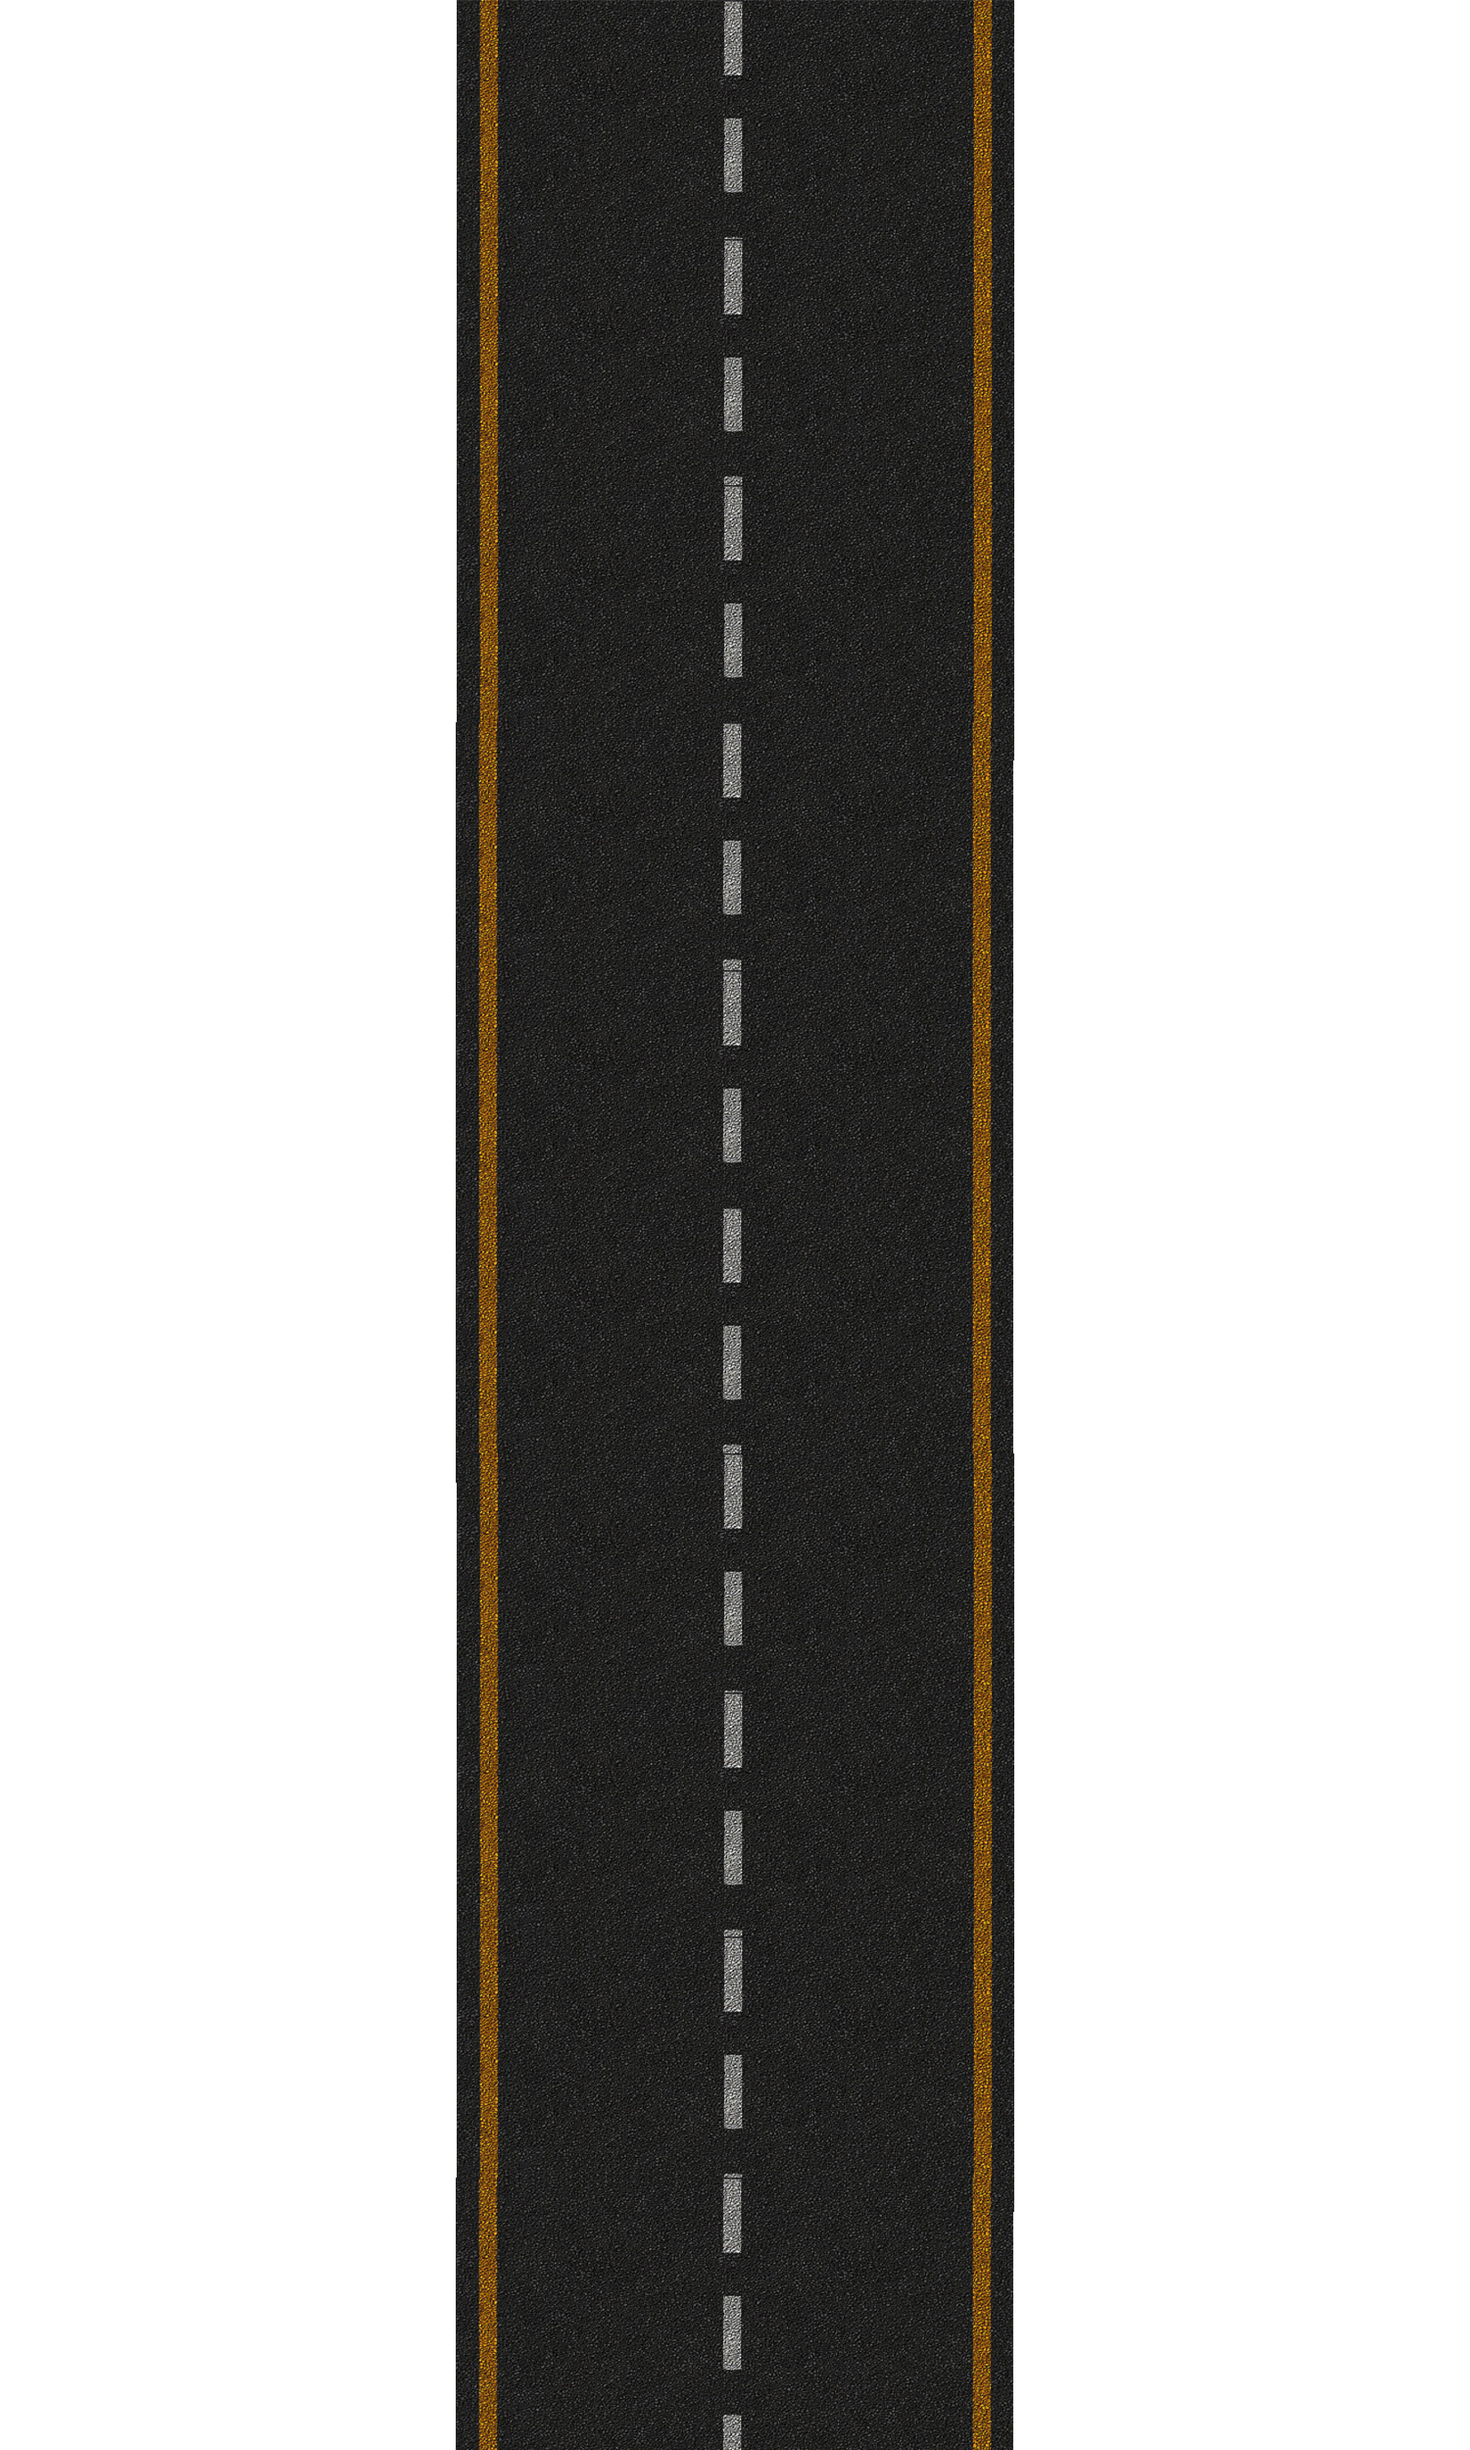
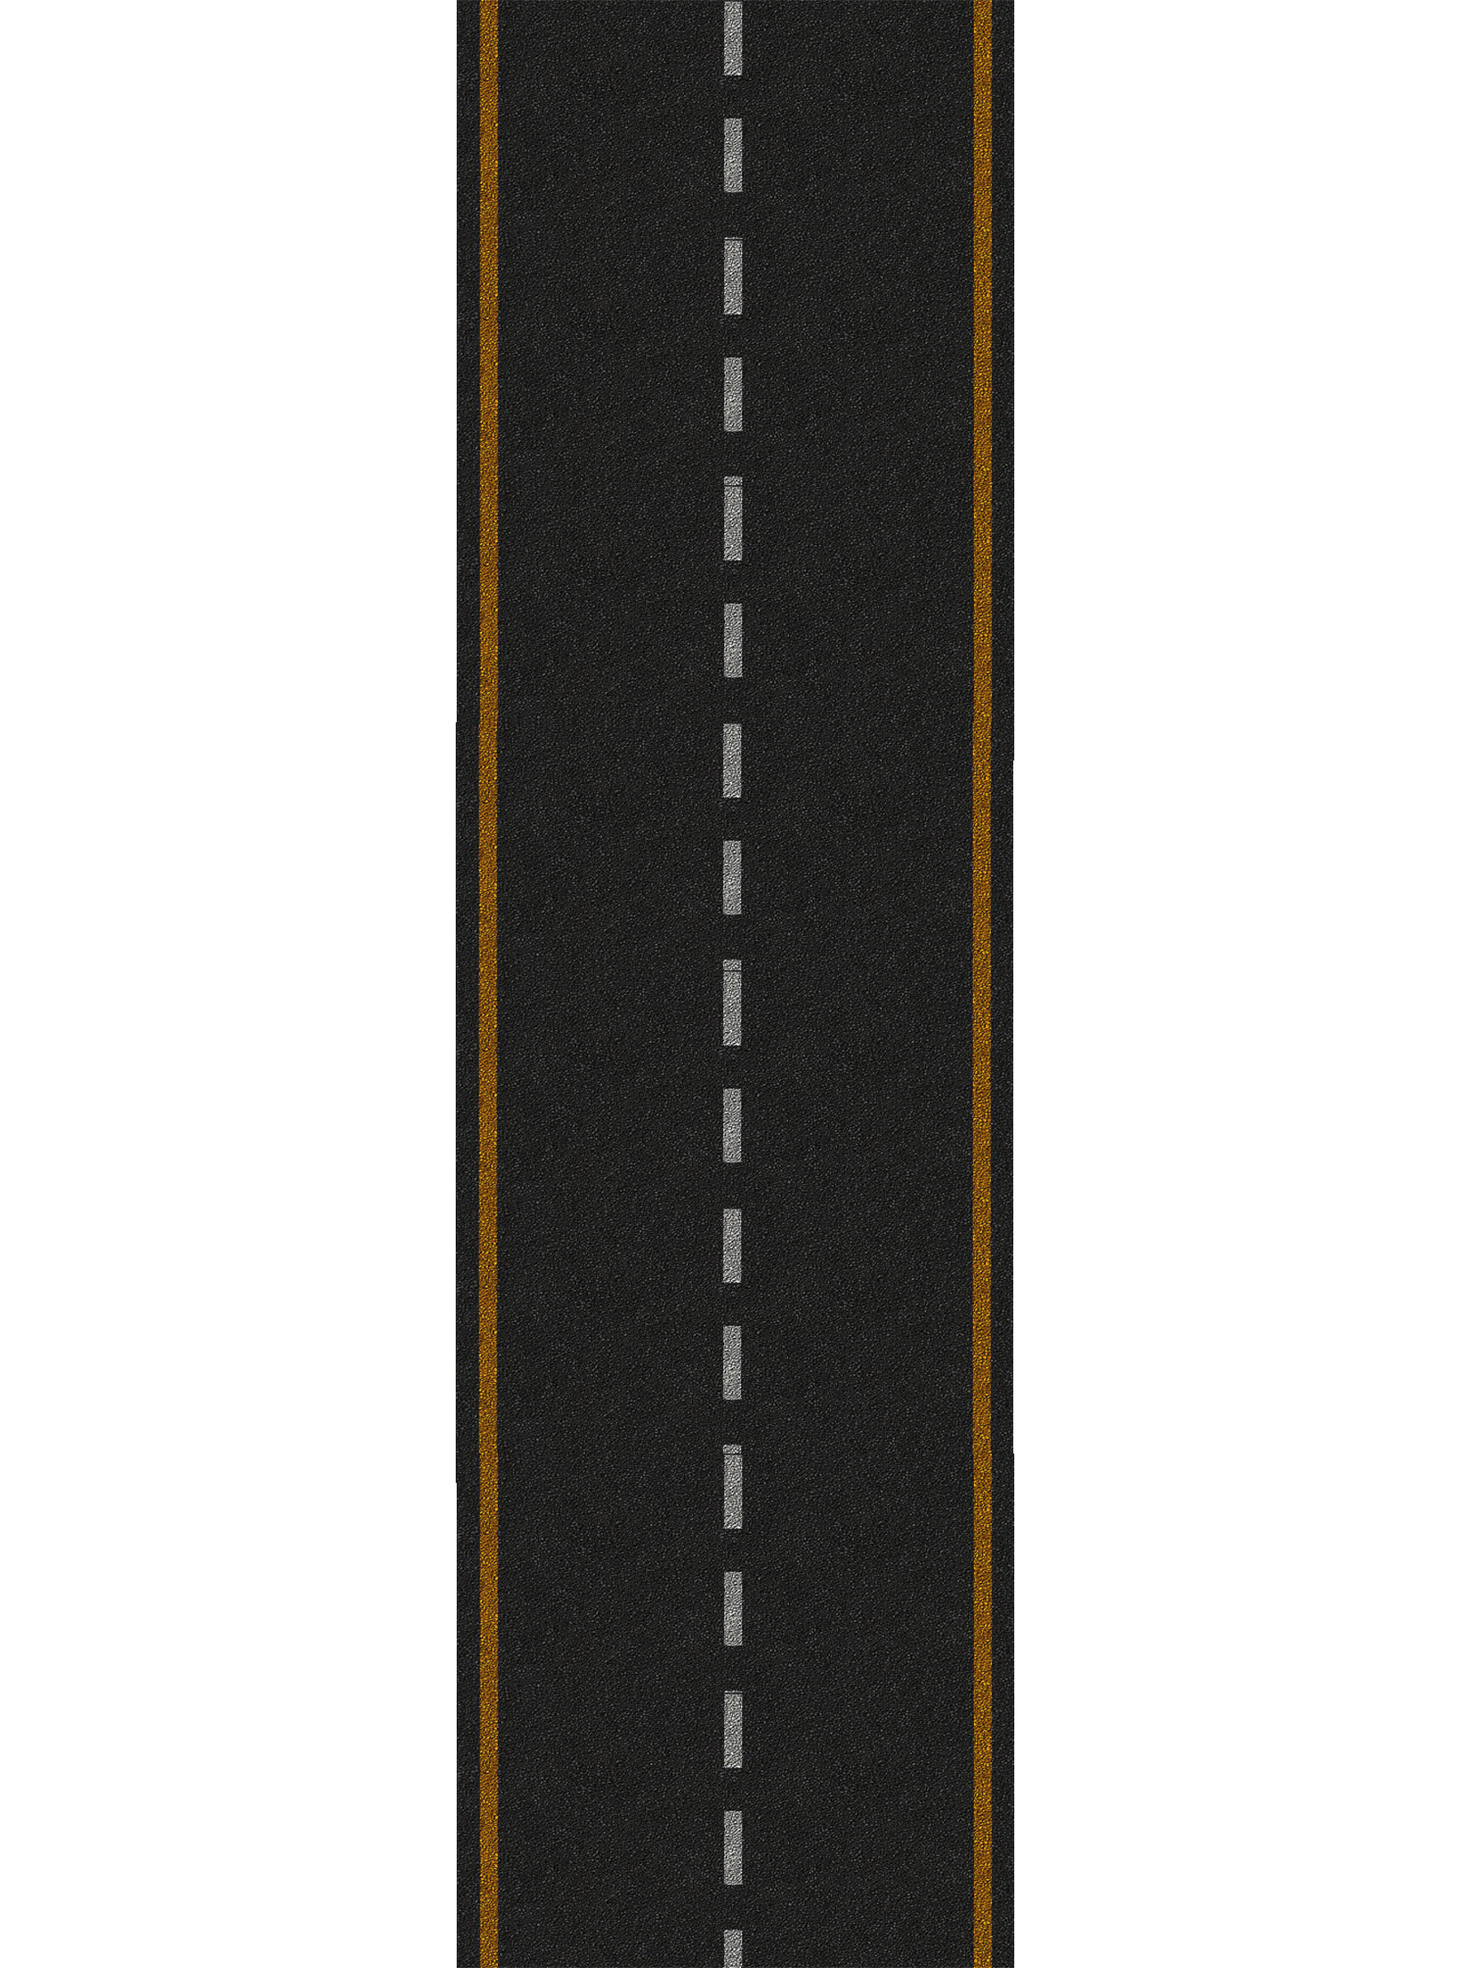
divided homepage grid

Changed region(s): [[0.3067, 0.0, 0.7053, 1.0]]

diff --git a/src/homepage/Home.js b/src/homepage/Home.js
@@ -20,6 +20,7 @@ import Philippines from '../images/philippines.png'
 import { Row, Col, Image } from 'react-bootstrap'
 import { Link } from 'react-router-dom'
 import Chalkboard from '../images/Chalkboard.png'
+import RoadStraight from '../images/road-straight.png'
 
 export default class Home extends Component {
   render () {
@@ -27,17 +28,19 @@ export default class Home extends Component {
       <div>
         <Image src={Chalkboard} responsive />
         <Row>
-          <Col xs={6} xsOffset={6}>
+          <Col xs={12}>
             <h1>European Germanic</h1>
             <Row>
-              <Col xs={6}>
+              <Col xs={3}></Col>
+              <Col xs={3}></Col>
+              <Col xs={3}>
                 <div className='country'>
                   <Image src={Germany} className='image' responsive />
                   <p className='subtitle'>German</p>
                   <Link to="/german"><span></span></Link>
                 </div>
               </Col>
-              <Col xs={6}>
+              <Col xs={3}>
                 <div className='country'>
                   <Image src={Holland} className='image' responsive />
                   <p className='subtitle'>Dutch</p>
@@ -68,6 +71,10 @@ export default class Home extends Component {
                 </div>
               </Col>
             </Row>
+          </Col>
+        </Row>
+        <Row>
+          <Col xs={12}>
             <Row>
               <Col xs={3}>
                 <div className='country'>
@@ -83,6 +90,8 @@ export default class Home extends Component {
                   <Link to="/korean"><span></span></Link>
                 </div>
               </Col>
+              <Col xs={3}></Col>
+              <Col xs={3}></Col>
             </Row>
           </Col>
         </Row>
@@ -114,7 +123,7 @@ export default class Home extends Component {
                   <Link to="/arabic"><span></span></Link>
                 </div>
               </Col>
-              <Col xs={3}></Col>
+              <Col xs={3}><Image src={RoadStraight} className='image' responsive /></Col>
               <Col xs={3}>
                 <div className='country'>
                   <Image src={France} className='image' responsive />
@@ -133,36 +142,41 @@ export default class Home extends Component {
           </Col>
         </Row>
         <Row>
-          <Col xs={3}>
+          <Col xs={12}>
             <Row>
-              <Col xs={12}>
+              <Col xs={3}>
                 <div className='country'>
                   <Image src={Israel} className='image' responsive />
                   <p className='subtitle'>Hebrew</p>
                   <Link to="/hebrew"><span></span></Link>
                 </div>
               </Col>
+              <Col xs={3}></Col>
+              <Col xs={3}></Col>
+              <Col xs={3}></Col>
             </Row>
           </Col>
         </Row>
         <Row>
-          <Col xs={6} xsOffset={3}>
+          <Col xs={12}>
             <h1>European East</h1>
             <Row>
-              <Col xs={6}>
+              <Col xs={3}></Col>
+              <Col xs={3}>
                 <div className='country'>
                   <Image src={Russia} className='image' responsive />
                   <p className='subtitle'>Russian</p>
                   <Link to="/russian"><span></span></Link>
                 </div>
               </Col>
-              <Col xs={6}>
+              <Col xs={3}>
                 <div className='country'>
                   <Image src={Greece} className='image' responsive />
                   <p className='subtitle'>Greek</p>
                   <Link to="/greek"><span></span></Link>
                 </div>
               </Col>
+              <Col xs={3}></Col>
             </Row>
           </Col>
         </Row>
